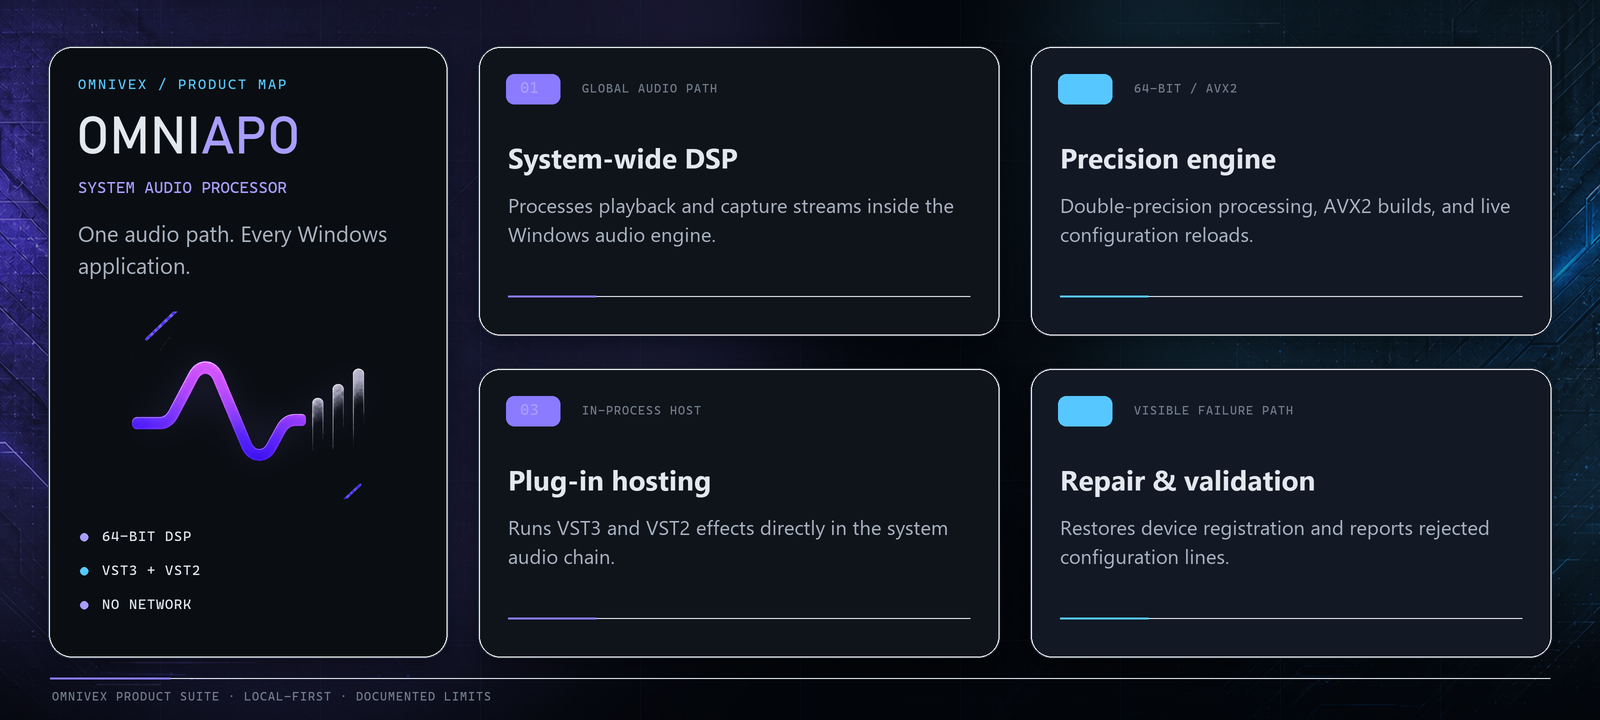
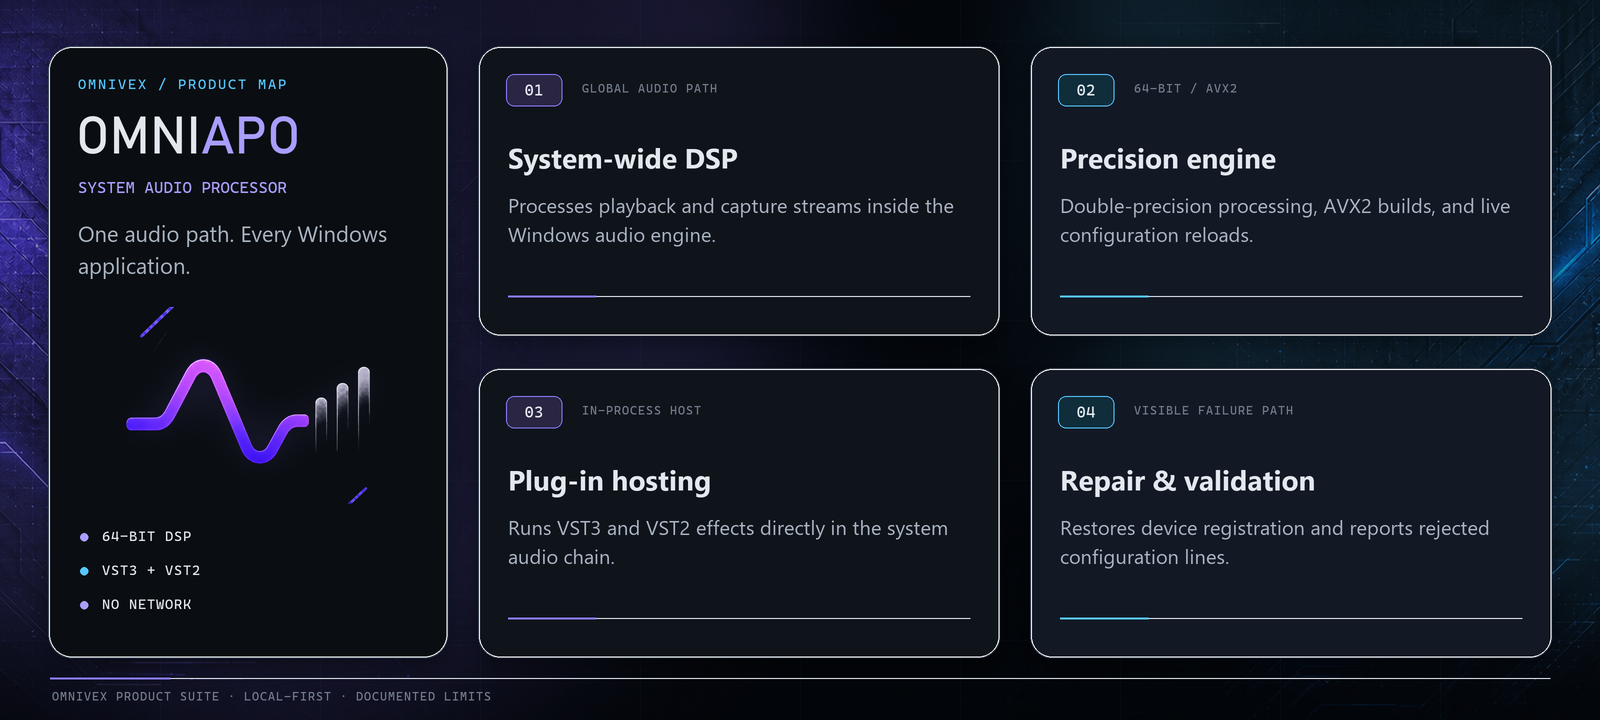
fix: show centered capability numbers (#11)

diff --git a/README.md b/README.md
@@ -68,7 +68,7 @@ with a design of its own. First released as 1.0.0; 1.0.1 is a small correctness 
 
 ## What it does
 
-![OmniAPO capability map covering system-wide DSP, precision processing, plug-in hosting, and repair and validation](assets/presentation/capabilities.png)
+![OmniAPO capability map covering system-wide DSP, precision processing, plug-in hosting, and repair and validation](assets/presentation/capabilities.png?v=20260823-visible-numbers-v3)
 
 **Equalisation and filtering.** Parametric and graphic EQ, biquad and IIR filters,
 per-channel gain, delay, channel routing and copying, expressions with variables, and
